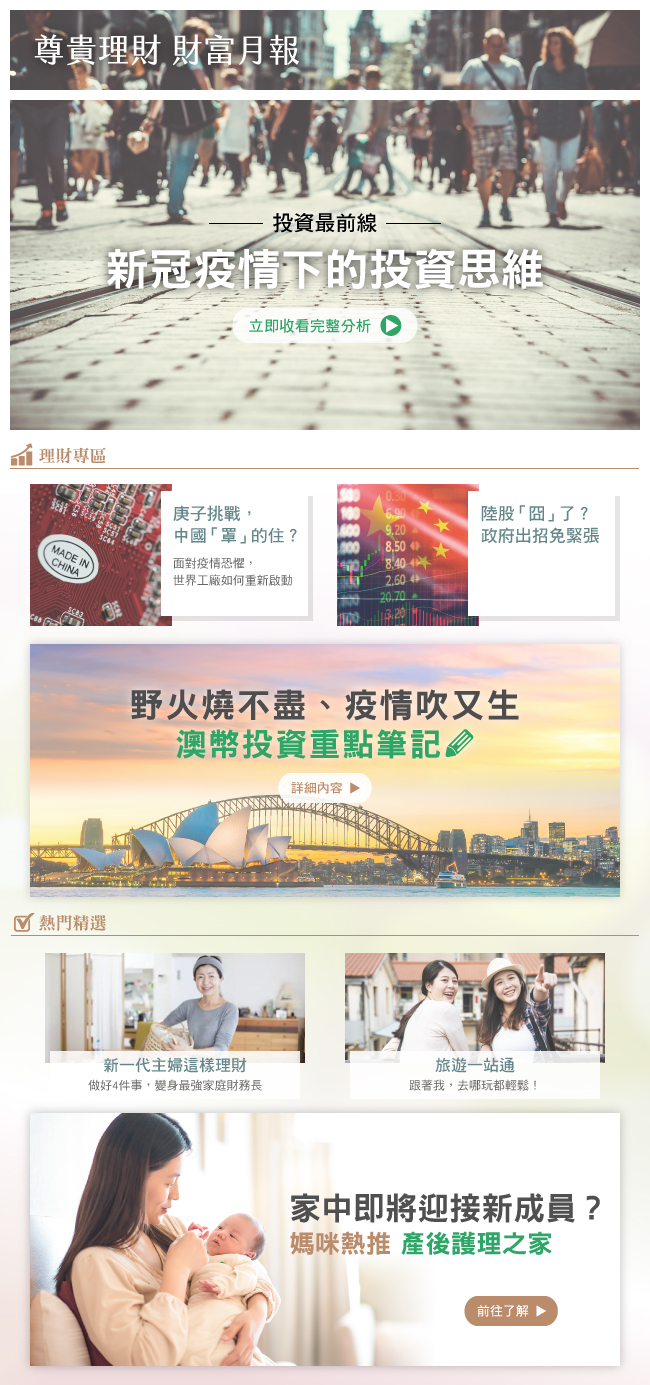
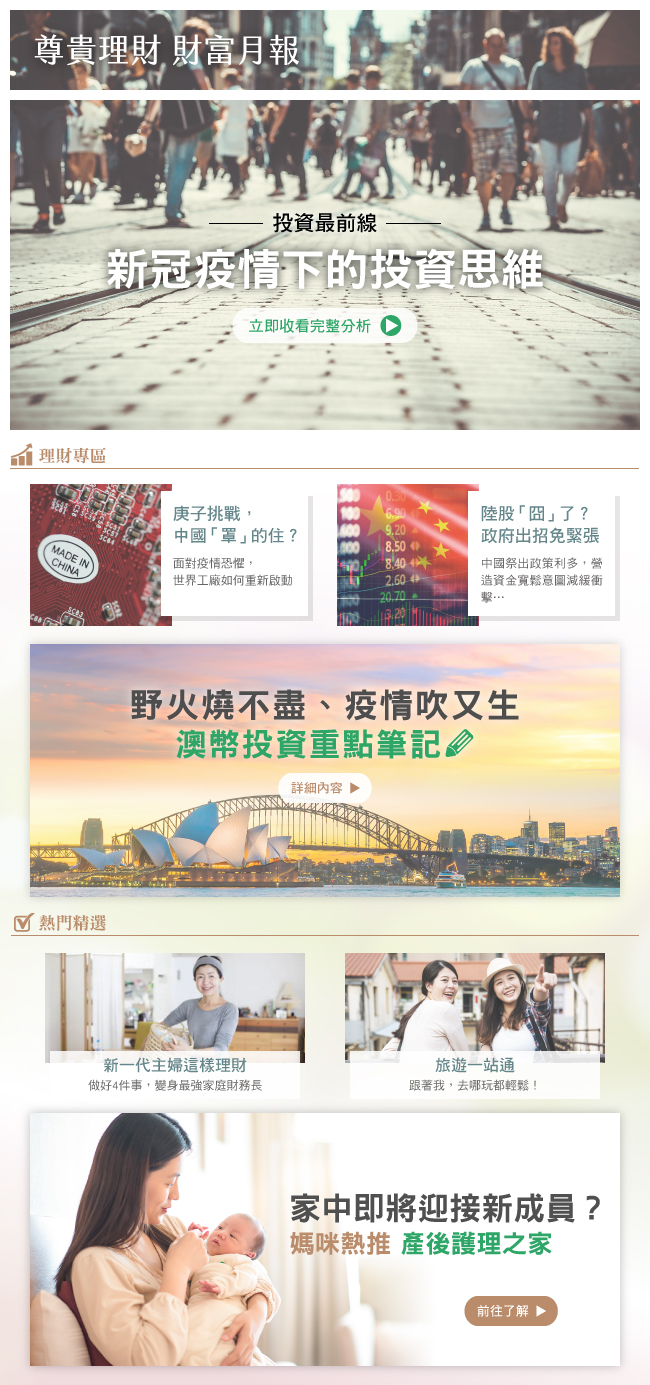
update

diff --git a/monthly-report-202003/index.html b/monthly-report-202003/index.html
@@ -106,10 +106,9 @@
 
 <map name="Map">
   <area shape="rect" coords="9,100,639,430" href="https://youtu.be/6gdzbCxMkOE?CUB_SRC=EDM&CUB_CHL1=URL&CUB_CHL2=01&MA_TK=WS128&CUB_DT=20200321" target="_blank" alt="-投資最前線-新冠疫情下的投資思維">
-  <area shape="rect" coords="334,484,620,628" href="https://www.cathaybk.com.tw/cathaybk/promo/event/fund/cathayfund/article-pages/market/qa128.html?CUB_SRC=EDM&CUB_CHL1=URL&CUB_CHL2=01&MA_TK=WS128&CUB_DT=20200321" target="_blank" alt="陸股「囧」了? 政府出招免緊張">
+  <area shape="rect" coords="336,484,622,628" href="https://www.cathaybk.com.tw/cathaybk/promo/event/fund/cathayfund/article-pages/market/qa128.html?CUB_SRC=EDM&CUB_CHL1=URL&CUB_CHL2=01&MA_TK=WS128&CUB_DT=20200321" target="_blank" alt="陸股「囧」了? 政府出招免緊張">
   <area shape="rect" coords="30,484,314,627" href="https://www.cathaybk.com.tw/cathaybk/promo/edm/wealth/product/202003/Wealth01m/index.html?CUB_SRC=EDM&CUB_CHL1=URL&CUB_CHL2=01&MA_TK=WS128&CUB_DT=20200321" target="_blank" alt="庚子挑戰，中國「罩」的住？">
-  <area shape="rect" coords="30,644,624,898" href="https://www.cathaybk.com.tw/cathaybk/promo/event/fund/cathayfund/article-pages/market/qa127.html?CUB_SRC=EDM&CUB_CHL1=URL&CUB_CHL2=01&MA_TK=WS128&CUB_DT=20200321" target="_blank" alt="野火燒不盡、疫情吹又生
-澳幣投資重點筆記">
+  <area shape="rect" coords="30,644,620,898" href="https://www.cathaybk.com.tw/cathaybk/promo/event/fund/cathayfund/article-pages/market/qa127.html?CUB_SRC=EDM&CUB_CHL1=URL&CUB_CHL2=01&MA_TK=WS128&CUB_DT=20200321" target="_blank" alt="野火燒不盡、疫情吹又生 澳幣投資重點筆記">
   <area shape="rect" coords="45,952,306,1099" target="_blank" alt="新一代主婦這樣理財">
   <area shape="rect" coords="345,952,606,1100" href="https://www.cathaybk.com.tw/cathaybk/digital-service/travel/?CUB_SRC=EDM&CUB_CHL1=URL&CUB_CHL2=01&MA_TK=WS128&CUB_DT=20200321" target="_blank" alt="旅遊一站通">
   <area shape="rect" coords="29,1112,621,1367" href="http://www.cathaybabycare.com.tw/contact-us.html?utm_source=newsletter&utm_medium=email&utm_campaign=財富月報&utm_content=財富月報&CUB_SRC=EDM&CUB_CHL1=URL&CUB_CHL2=01&MA_TK=WS128&CUB_DT=20200321" target="_blank" alt="家中即將迎接新成員？">

diff --git a/MR202003-html/202003_1/index.html b/MR202003-html/202003_1/index.html
@@ -86,7 +86,7 @@ div.text_in:after {
       </div>
          <div class="in">
             <div id="box_text">
-                <p class="text_left s_20">面對疫情恐懼，世界工廠如何重新啟動</p>     
+                <p class="text_left s_20"></p>     
             </div>           
          <div class="box_in">               
                 <div id="box1">
